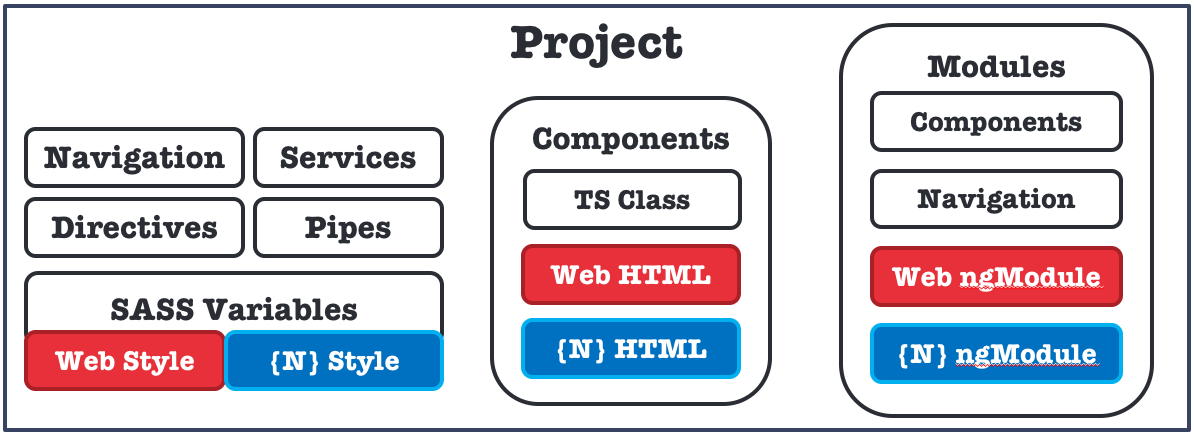
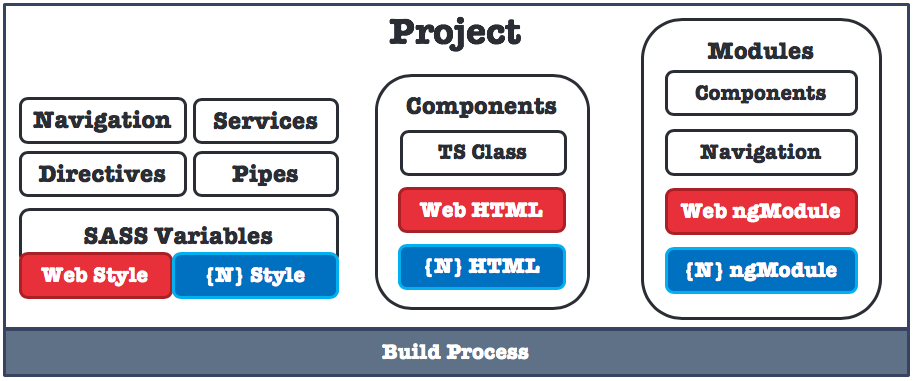
Update based on feedback

diff --git a/angular-web-and-mobile/angular-web-and-mobile.md b/angular-web-and-mobile/angular-web-and-mobile.md
@@ -2,9 +2,9 @@
 
 ![nativescript-loves-angular](./images/nativescript-loves-angular.png?raw=true)
 
-Since the beginning of Angular (even back in the days when we were calling it Angular 2), you could use [NativeScript](https://www.nativescript.org/) with Angular to build mobile apps.
+Since the beginning of Angular, you could use [NativeScript](https://www.nativescript.org/) with Angular to build mobile apps.
 
-> NativeScript is an open source framework for building truly native mobile apps with JavaScript. It let's you use your existing Angular skills, and as a result you get native UI & performance on iOS and Android.
+> NativeScript is an open source framework for building truly native mobile apps with JavaScript. It let's you use your existing Angular skills, and as a result you get a native UI & performance on iOS and Android.
 
 However, when you needed to build both a web and a native mobile app, you had to create two separate projects. With the dawn of **Schematics** and **ng add** this has changed.
 
@@ -12,12 +12,15 @@ The Angular and NativeScript teams teamed up to create [nativescript-schematics]
 
 > Please note that **@nativescript/schematics** works with **@angular/cli 6.1.0** or newer.
 
-We are looking here at scenario where you can use Angular CLI with the {N} schematic to:
+We are looking here at a scenario where you can use the Angular CLI with the {N} schematic to, either:
 
- 1. create new projects with a code-sharing structure,
- 2. convert existing web projects to a code-sharing structure,
- 3. convert components and modules to a code-sharing format,
- 4. generate components and modules in a code-sharing format
+ * create a new project with a code-sharing structure, or
+ * convert an existing web project to a code-sharing structure.
+
+Then: 
+ 
+ * convert components and modules to a code-sharing format,
+ * generate new components and modules in a code-sharing format.
 
 ## Code-Sharing Project
 
@@ -25,7 +28,7 @@ A code-sharing project is one where we keep the code for the web and mobile apps
 
 ![project-structure](./images/project-structure.png?raw=true)
 
-The objective is to share as much code as possible, and split the platform-specific code into separate files.
+The objective is to share as much code as possible, and separate the platform-specific code into separate files.
 
 This usually means that we can share the code for:
 
@@ -33,14 +36,14 @@ This usually means that we can share the code for:
  * **Services** for common business logic,
  *  and **Component Class definition** for common behaviour of a component
 
-While, splitting the code for:
+While, separating the code for:
 
- * **UI Layer** (**css** and **html**) - as most of the time what you want to show in a browser is not quite the same to what an app with Native UI should display,
- * and **NgModules** - so that we can import platform specific modules, without creating conflicts (i.e. Angular Material Design - which is web only) between web and mobile (more on that later) <!--!!!TODO: provide link-->
+ * **UI Layer** (**stylesheets** and **html**) - as you need to use different user interface components in web and NativeScript-built native apps,
+ * and **NgModules** - so that we can import platform specific modules, without creating conflicts (i.e. Angular Material Design - which is web only) between web and mobile.
 
 ### Create project
 
-To get started we could either create a new project with a code-sharing structure. Just run **ng new** with **@nativescript/schematics** as the collection.
+To get started we could either create a new project with a code-sharing structure. Just run `ng new` with **@nativescript/schematics** as the collection.
 
 Just like this:
 
@@ -53,25 +56,23 @@ ng new --collection=@nativescript/schematics --name=app-name --shared
 > npm i -g @nativescript/schematics
 > ```
 
-### Extend existing web project
-
-Or we could extend an existing web projects with capability to build Mobile apps with NativeScript, by simply calling:
+Or we could extend an existing web projects with the capability to build Mobile apps with NativeScript, by simply calling:
 
 ```bash
 ng add @nativescript/schematics
 ```
 
-This will add NativeScript specific npm modules, add a default **AppModule** and **AppComponent** definition (or whatever you called your entry module and entry component) and add another tsconfig.json.
+This adds the NativeScript specific npm modules, add a default **AppModule** and **AppComponent** definition (or whatever you called your entry module and entry component) and adds another tsconfig.json (for NativeScript).
 
-## Code Splitting
+## Code Separation
 
-Before we can start code-sharing, we need to know how to split the code. This is important, so that we could easily create platform specific code without creating conflicts.
+Before we can start code-sharing, we need to know how to separate the web code from the mobile code. This is important, so that we could easily create a platform specific code without creating conflicts.
 
-To do that we can use a simple **naming convention**. By adding a **.tns** before the file extension, you can indicate that this file is NativeScript specific, while the same file without **.tns** is web specific. If we have just one file without the **.tns** extension, then this is a shared file.
+To do that we can use a simple **naming convention**. By adding a **.tns** before the file extension, you can indicate that this file is NativeScript specific, while the same file without the **.tns** extension is marked as web specific. If we have just one file without the **.tns** extension, then this makes it a shared file.
 
 ## Component - Code-Sharing Format
 
-![code-splitting](./images/code-splitting.png?raw=true)
+![code-separating](./images/code-separation.png?raw=true)
 
 The most common scenario is a component code. Usually we would have:
 
@@ -81,7 +82,7 @@ The most common scenario is a component code. Usually we would have:
  * **name.component.css** - a web specific stylesheet
  * **name.component.tns.css** - a mobile specific stylesheet
 
-What is interesting here, that in our **@Component** Decorator references the template and the stylesheet without the **.tns** extension, as this is something that is handled by the build process.
+What is interesting here, is that in our **@Component** Decorator references the template and stylesheet files without including the **.tns** extension, as this is something that is handled by the build process.
 
 ```ts
 @Component({
@@ -100,14 +101,14 @@ Let's consider a scenario for an app with a Login and Home Components, User Serv
 
 ![build-process](./images/build-process.png?raw=true)
 
-To complete the story, we need a build process that is capable of using the shared files and the platform specific ones, and provide a web or mobile app as a result.
+To complete the story, we need a build process that is capable of using the shared files and the platform specific ones, and provide a web or a mobile app as a result.
 
-### Web Build
+### Building for Web
 
-To build a web app, it is "Business as usual", just use Angular CLI to do the job.
-When you call **ng serve** or **ng build**, Angular CLI will ignore all NativeScript specific files - as none of the web files would directly reference any **.tns** files.
+To build a web app, it is "Business as usual", just use the Angular CLI to do the job.
+When you call `ng serve` or `ng build`, the Angular CLI will ignore all NativeScript specific files - as none of the web files would directly reference any **.tns** files.
 
- > **ng serve** -> builds a web app from a code-sharing project
+ > `ng serve` -> builds a web app from a code-sharing project
 
 For AOT builds, you may need to give TypeScript a helping hand, by adding NativeScript extensions to **tsconfig.json** exclude list.
 
@@ -120,29 +121,29 @@ For AOT builds, you may need to give TypeScript a helping hand, by adding Native
 ]
 ```
 
-### Mobile Build
+### Building for Mobile
 
-In order to build an iOS or an Android app with NativeScript, we need to use [NativeScript CLI](https://www.npmjs.com/package/nativescript) with [NativeScript Webpack plugin](https://www.npmjs.com/package/nativescript-dev-webpack).
+In order to build an iOS or an Android app with NativeScript, we need to use the [NativeScript CLI](https://www.npmjs.com/package/nativescript) with the [NativeScript Webpack plugin](https://www.npmjs.com/package/nativescript-dev-webpack).
 
 Call:
 
- * **tns run ios --bundle** - to build an iOS app from a code-sharing project
- * **tns run android --bundle** - to build an Android app from a code-sharing project
+ * `tns run ios --bundle` - to build an iOS app from the code-sharing project
+ * `tns run android --bundle` - to build an Android app from the code-sharing project
 
-First, Webpack looks for any **.tns** files, and rename them by removing the **.tns** part (i.e. **home.component.tns.html** => **home.component.html**), as a result hiding the web specific files. 
+During the build process, Webpack takes care of providing the **.tns** files whenever they are available, and as a result hiding the web versions of the same files (virtually, files like **home.component.tns.html** become **home.component.html**). While the NativeScript CLI is responsible for building a native mobile app.
 
-Once that is complete, the NativeScript build process takes the new image of the project and runs a build process with XCode for iOS or Gradle for Android, and as a result producing a Native Mobile app.
+## Code Separation for NgModules: HttpClient
+Code separation is useful when working with NgModules, as often you need to import web- or NativeScript-specific modules.
 
-## Splitting NgModules: HttpClient
-A very good example where splitting NgModules comes in handy, is when we want to make http calls. In a web app we need to import **HttpClientModule**, which will provide us with the implementation for the **HttpClient**.
+A very good example is when you need to make an http call. In a web app you need to import the **HttpClientModule**, which  provides you with the implementation for the **HttpClient**.
 
-However, the way http calls are executed in a browser is different to how they work in iOS and Android. In NativeScript we can use **NativeScriptHttpClientModule**, which provides us with the equivalent implementation for the **HttpClient**.
+However, the way http calls are executed in a browser is different to how they work in iOS and Android. In NativeScript you should use the **NativeScriptHttpClientModule**, which provides us with the equivalent implementation for the **HttpClient**.
 
-Now, we can use the code splitting technique to create two versions of the **@NgModule** - each using a different version of **HttpClientModule** - and then with the help of Dependency Injection provide the right implementation of the **HttpClient** into our service.
+Now, you can use the code separation technique to create two versions of the **@NgModule** - each using a different version of the **HttpClientModule** - and then with the help of Dependency Injection provide the right implementation of the **HttpClient** into your service.
 
-![module-splitting](./images/ngmodule-http.png?raw=true)
+![module-separation](./images/ngmodule-http.png?raw=true)
 
- * **my.module.ts** - web module file that imports **HttpClientModule**
+ * **my.module.ts** - a web module file that imports the **HttpClientModule**
 
 ```ts
 import { HttpClientModule } from '@angular/common/http'; 
@@ -157,7 +158,7 @@ import { HttpClientModule } from '@angular/common/http';
 export class MyModule { }
 ```
 
- * **my.module.tns.ts** - mobile module file that imports **NativeScriptHttpClientModule**
+ * **my.module.tns.ts** - a mobile module file that imports the **NativeScriptHttpClientModule**
 
 ```ts
 import { NativeScriptHttpClientModule } from 'nativescript-angular/http-client';
@@ -172,7 +173,7 @@ import { NativeScriptHttpClientModule } from 'nativescript-angular/http-client';
 export class MyModule { }
 ```
 
- * **my.service.ts** - shared service file that injects the **HttpClient**
+ * **my.service.ts** - a shared service file that injects the **HttpClient**
 
 ```ts
 import { Injectable } from '@angular/core';
@@ -186,23 +187,23 @@ export class MyService {
 }
 ```
 
- > Code splitting for modules makes for a simple and quite elegant solution. It enables us to bring in functionality that has different implementation (for web and mobile) under one hood and as a result maximise the shared code.
+ > Code separation for modules makes up for a simple and a quite elegant solution. It enables you to bring in functionality that has different implementation (for the web and mobile apps) under one hood and as a result maximise the shared code.
 
 ## Summary
 
-As you could see, building for both web and mobile from a single project is fairly straight forward. You can either start with a fresh project (using ng new) or add mobile to an existing project (using ng add). There is also a simple naming convention to enable code splitting, which allows you to cover many scenarios.
+As you can see, building for both web and mobile from a single project is fairly straight forward. You can either start with a fresh project (using `ng new`) or add mobile to an existing project (using `ng add`). There is also a simple naming convention to enable code separation, which allows you to cover many scenarios.
 
-Go ahead and give it a try. It is really that simple. You are only one simple **ng add** or **ng new** away from the wonders of code-sharing in Angular.
+Go ahead and give it a try. It really is that simple. You are only one simple `ng add` or `ng new` away from the wonders of code-sharing in Angular.
 
-I would love to hear from you, let me know what works for you, what doesn't and how things could be improved. Any constructive feedback is always welcome. 
+We would love to hear from you, let us know what works for you, what doesn't and how things could be improved. Any constructive feedback is always welcome.
 
 ### Learn more
 
-This article covers the core functionality around sharing code between web and mobile with Angular and NativeScript. There is still more that you might be interested in, like:
+This article covers the core functionality around sharing the code between the web and mobile apps with Angular and NativeScript. There is still more that you might be interested in, like:
 
  * how to develop in a code-sharing project,
  * the migration process - with **migrate-component** and **migrate-module** commands,
- * extended Angular CLI generators,
- * or handling libraries with mismatched APIs - different API interface for web and mobile
+ * extended the Angular CLI generators,
+ * or handling libraries with mismatched APIs - that is when we have two similar libraries with a different API interface for web and mobile
 
 To learn more see our documentation at [docs.nativescript.org/angular/code-sharing/](https://docs.nativescript.org/code-sharing/)
